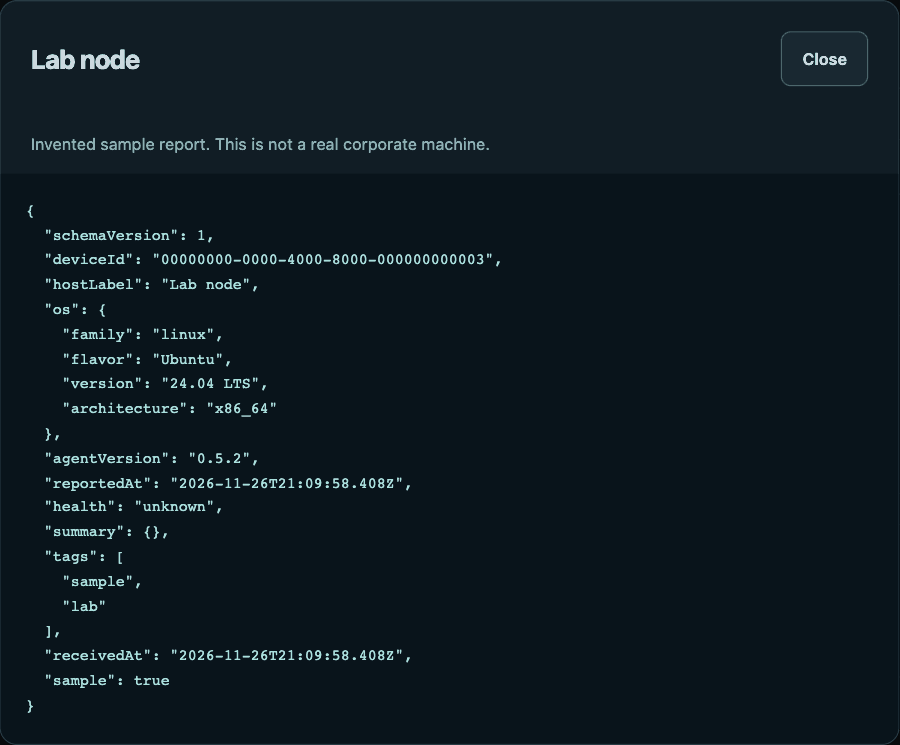
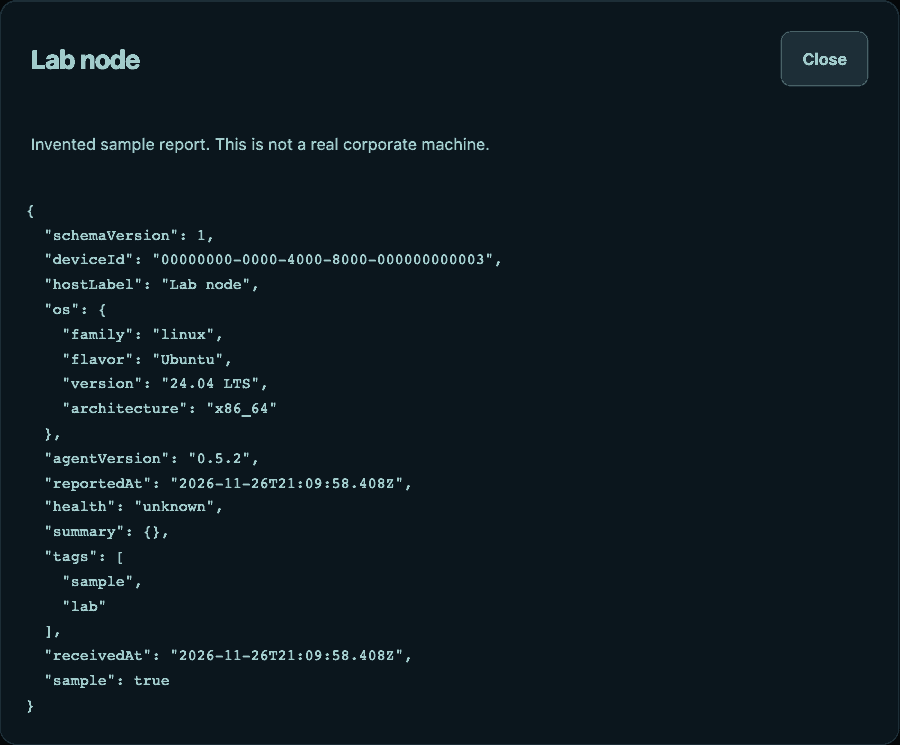
Fit the signed-in inventory guide within the site budget

Changed region(s): [[0.0311, 0.1852, 0.5289, 0.2161], [0.0311, 0.0617, 0.1556, 0.0926], [0.9022, 0.0617, 0.9333, 0.0926]]

diff --git a/static/r/inventory-guide/index.html b/static/r/inventory-guide/index.html
@@ -39,7 +39,7 @@
     <h3>3. Check the result</h3>
     <p>Click <strong>Show Status</strong>. Read the login item status and the last saved reporting result. A <code>waiting</code> state calls for provisioning. A <code>retrying</code> state means a report failed. The <strong>Last accepted by Fleet</strong> timestamp appears after a receipt is saved. It corresponds to <code>receivedAt</code> in the runtime’s status output. Only an accepted report creates or updates a Fleet row.</p>
     <p>Each report includes a stable identifier for this installation, computer name, OS family/flavor, kernel version, architecture, RedAgent version and UTC time. Health is reported as unknown. Counts and tags are empty. Other reporting users and a concurrently running system helper have independent IDs and can create additional Fleet rows for the same Mac. Choose one reporter per computer if you need one row per Mac.</p>
-    <figure><a href="user-controls.webp"><img src="user-controls.webp" width="880" height="338" alt="Transcript of the packaged controls showing successful login-item loading, waiting with no cloud receipt, then removal and a final not-installed status."></a><figcaption>Actual packaged control output, displayed in a text viewer. This signed-in test account had no Fleet profile. The null <code>receivedAt</code> shows that the run received no cloud acknowledgment.</figcaption></figure>
+    <figure><a href="user-controls.webp"><img src="user-controls.webp" width="704" height="65" alt="Packaged status output showing a loaded login item, waiting state and null receivedAt."></a><figcaption>Excerpt of the packaged status control’s output in a text viewer. This signed-in test account had no Fleet profile. The null <code>receivedAt</code> shows that the run received no cloud acknowledgment.</figcaption></figure>
     <details><summary>Read the status output as text</summary>
       <pre aria-label="Actual status output from an unprovisioned installation"><code>Inventory login item: loaded
 {"state": "waiting", "reason": "", "deviceId": null, "receivedAt": null, "environment": null, "scope": "user", "updatedAt": "2026-11-26T23:53:02Z"}</code></pre>
@@ -68,7 +68,7 @@
   </section>
   <section><h2>4. Find the device in Fleet</h2>
     <p>Select <strong>Open fleet portal</strong>. Sign in with an account authorized to view your fleet and choose <strong>Refresh reports</strong>. Under <strong>Managed machines</strong>, enter the device label in <strong>Search machines</strong>. For a first lookup, leave <strong>Platform</strong>, <strong>Version / flavor</strong> and <strong>Report status</strong> at their default settings.</p>
-    <figure><a href="sample-list.webp"><img src="sample-list.webp" width="1665" height="488" alt="Managed machines filtered to an invented Linux device called Lab node, with Unknown health and a stale last check-in."></a><figcaption>The portal’s <strong>Explore sample fleet</strong> option displays invented records. The sample Lab node has an older receipt and remains visible with <strong>All statuses</strong> selected.</figcaption></figure>
+    <figure><a href="sample-list.webp"><img src="sample-list.webp" width="980" height="287" alt="Managed machines filtered to an invented Linux device called Lab node, with Unknown health and a stale last check-in."></a><figcaption>The portal’s <strong>Explore sample fleet</strong> option displays invented records. The sample Lab node has an older receipt and remains visible with <strong>All statuses</strong> selected.</figcaption></figure>
     <p>Select <strong>View report</strong> for the matching device. <code>reportedAt</code> is the time supplied by the client. For live records, <code>receivedAt</code> comes from CloudKit’s record modification time. An empty <code>summary</code> means that the client supplied no counts.</p>
     <figure><a href="sample-report.webp"><img src="sample-report.webp" width="900" height="745" alt="Invented sample report for Lab node showing RedAgent 0.5.2, an empty summary, and the receipt timestamp."></a><figcaption>The built-in sample report demonstrates how the portal represents unmeasured counts. Its timestamps are synthetic.</figcaption></figure>
   </section>
